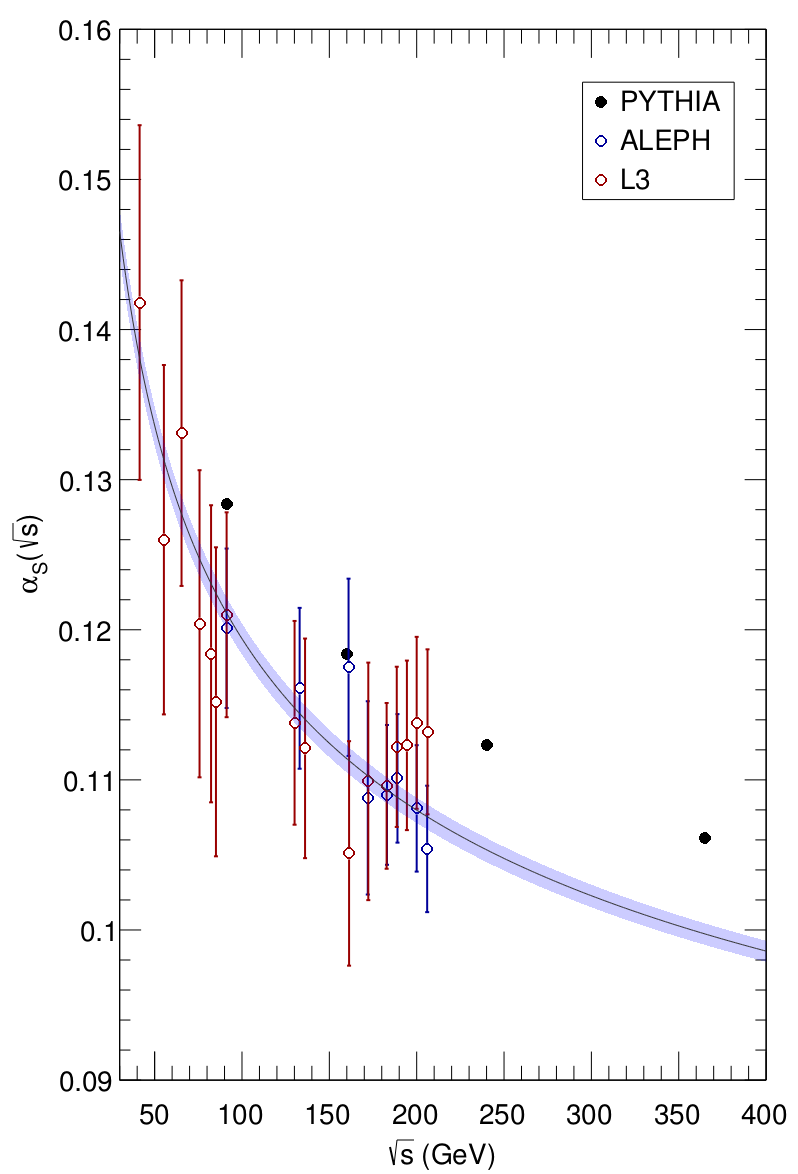
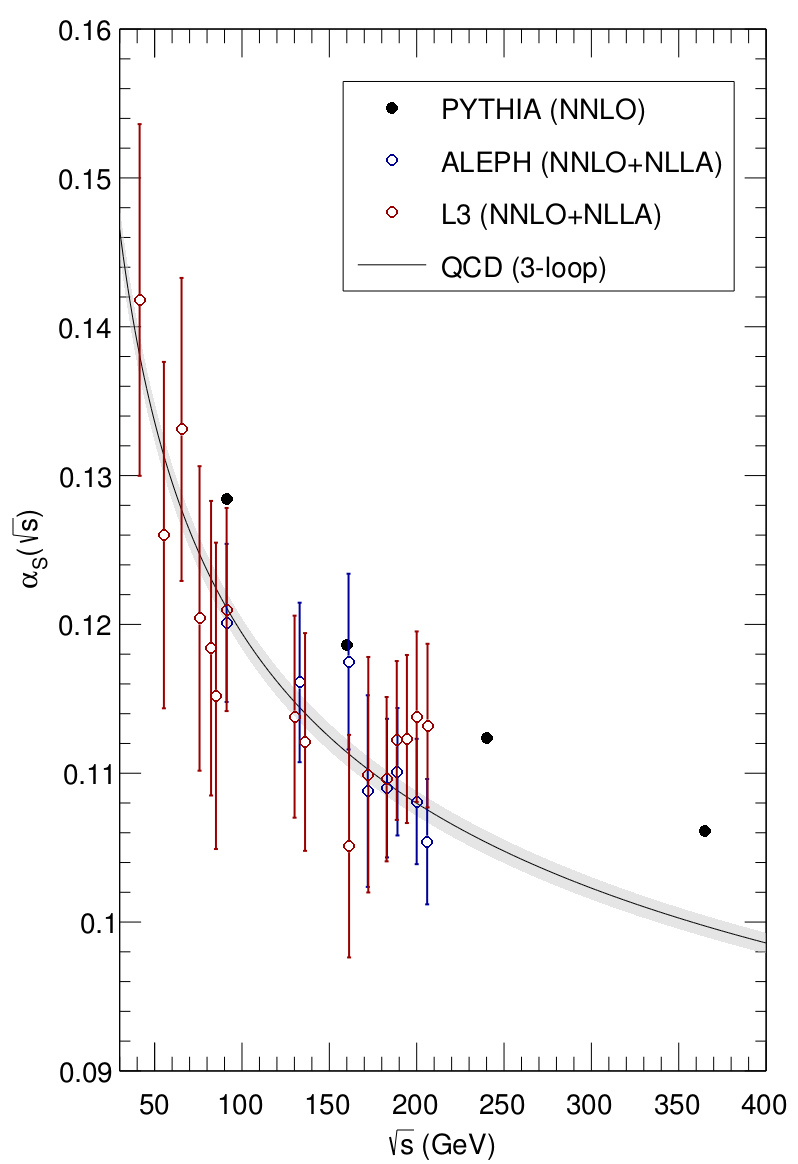
File updates

diff --git a/7-TESLA_500G_Calibration/ImpactofAlpha.cc b/7-TESLA_500G_Calibration/ImpactofAlpha.cc
@@ -622,100 +622,100 @@ void ImpactofAlpha() {
 
 /////////////////////////////////////////////////////////////////////////////////////////////////////////////
 
-	// Create canvas
-	TCanvas* cv5 = new TCanvas("cv5", "FCC-ee ISR Studies", 900, 900);
+	// // Create canvas
+	// TCanvas* cv5 = new TCanvas("cv5", "FCC-ee ISR Studies", 900, 900);
 
-	TLegend* lg5 = new TLegend(0.73, 0.82, 0.92, 0.93);
-	lg5->AddEntry(hist_ThrPyth_912_woHadron, "PYTHIA", "P");
-	lg5->AddEntry(hist_fitThNN_912, "NNLO", "L");
-	lg5->SetTextSize(0.04);	
+	// TLegend* lg5 = new TLegend(0.73, 0.82, 0.92, 0.93);
+	// lg5->AddEntry(hist_ThrPyth_912_woHadron, "PYTHIA", "P");
+	// lg5->AddEntry(hist_fitThNN_912, "NNLO", "L");
+	// lg5->SetTextSize(0.04);	
 
-	// Beautify
-	gStyle->SetErrorX(0.000000001);
-	gStyle->SetLabelSize(0.05, "X");
-	gStyle->SetLabelSize(0.05, "Y");
-	gStyle->SetTitleSize(0.06, "X");
-	gStyle->SetTitleSize(0.06, "Y");
-	cv5->SetMargin(0, 0, 0, 0); 
-	cv5->Divide(1,2);
-	for (int i = 1; i <= 2; i++) {
-		cv5->cd(i);
-		gPad->SetTopMargin(0.025);
-		gPad->SetBottomMargin(0.07);
-		gPad->SetLeftMargin(0.12);
-		gPad->SetRightMargin(0.04);
-		gPad->SetTickx(); gPad->SetTicky();
-		gPad->SetLogy();
-	}
+	// // Beautify
+	// gStyle->SetErrorX(0.000000001);
+	// gStyle->SetLabelSize(0.05, "X");
+	// gStyle->SetLabelSize(0.05, "Y");
+	// gStyle->SetTitleSize(0.06, "X");
+	// gStyle->SetTitleSize(0.06, "Y");
+	// cv5->SetMargin(0, 0, 0, 0); 
+	// cv5->Divide(1,2);
+	// for (int i = 1; i <= 2; i++) {
+	// 	cv5->cd(i);
+	// 	gPad->SetTopMargin(0.025);
+	// 	gPad->SetBottomMargin(0.07);
+	// 	gPad->SetLeftMargin(0.12);
+	// 	gPad->SetRightMargin(0.04);
+	// 	gPad->SetTickx(); gPad->SetTicky();
+	// 	gPad->SetLogy();
+	// }
 
-	hist_ThrPyth_912_woHadron->SetLineColor(kBlack); hist_ThrPyth_912_woHadron->SetMarkerColor(kBlack); hist_ThrPyth_912_woHadron->SetMarkerStyle(kStar); hist_ThrPyth_912_woHadron->SetLineWidth(2); hist_ThrPyth_912_woHadron->SetMarkerSize(2);
-	hist_ThrPyth_160_woHadron->SetLineColor(kBlack); hist_ThrPyth_160_woHadron->SetMarkerColor(kBlack); hist_ThrPyth_160_woHadron->SetMarkerStyle(kStar); hist_ThrPyth_160_woHadron->SetLineWidth(2); hist_ThrPyth_160_woHadron->SetMarkerSize(2);
-	hist_ThrPyth_240_woHadron->SetLineColor(kBlack); hist_ThrPyth_240_woHadron->SetMarkerColor(kBlack); hist_ThrPyth_240_woHadron->SetMarkerStyle(kStar); hist_ThrPyth_240_woHadron->SetLineWidth(2); hist_ThrPyth_240_woHadron->SetMarkerSize(2);
-	hist_ThrPyth_365_woHadron->SetLineColor(kBlack); hist_ThrPyth_365_woHadron->SetMarkerColor(kBlack); hist_ThrPyth_365_woHadron->SetMarkerStyle(kStar); hist_ThrPyth_365_woHadron->SetLineWidth(2); hist_ThrPyth_365_woHadron->SetMarkerSize(2);
+	// hist_ThrPyth_912_woHadron->SetLineColor(kBlack); hist_ThrPyth_912_woHadron->SetMarkerColor(kBlack); hist_ThrPyth_912_woHadron->SetMarkerStyle(kStar); hist_ThrPyth_912_woHadron->SetLineWidth(2); hist_ThrPyth_912_woHadron->SetMarkerSize(2);
+	// hist_ThrPyth_160_woHadron->SetLineColor(kBlack); hist_ThrPyth_160_woHadron->SetMarkerColor(kBlack); hist_ThrPyth_160_woHadron->SetMarkerStyle(kStar); hist_ThrPyth_160_woHadron->SetLineWidth(2); hist_ThrPyth_160_woHadron->SetMarkerSize(2);
+	// hist_ThrPyth_240_woHadron->SetLineColor(kBlack); hist_ThrPyth_240_woHadron->SetMarkerColor(kBlack); hist_ThrPyth_240_woHadron->SetMarkerStyle(kStar); hist_ThrPyth_240_woHadron->SetLineWidth(2); hist_ThrPyth_240_woHadron->SetMarkerSize(2);
+	// hist_ThrPyth_365_woHadron->SetLineColor(kBlack); hist_ThrPyth_365_woHadron->SetMarkerColor(kBlack); hist_ThrPyth_365_woHadron->SetMarkerStyle(kStar); hist_ThrPyth_365_woHadron->SetLineWidth(2); hist_ThrPyth_365_woHadron->SetMarkerSize(2);
 
-	hist_CprPyth_912_woHadron->SetLineColor(kBlack); hist_CprPyth_912_woHadron->SetMarkerColor(kBlack); hist_CprPyth_912_woHadron->SetMarkerStyle(kStar); hist_CprPyth_912_woHadron->SetLineWidth(2); hist_CprPyth_912_woHadron->SetMarkerSize(1.5);
-	hist_CprPyth_160_woHadron->SetLineColor(kBlack); hist_CprPyth_160_woHadron->SetMarkerColor(kBlack); hist_CprPyth_160_woHadron->SetMarkerStyle(kStar); hist_CprPyth_160_woHadron->SetLineWidth(2); hist_CprPyth_160_woHadron->SetMarkerSize(1.5);
-	hist_CprPyth_240_woHadron->SetLineColor(kBlack); hist_CprPyth_240_woHadron->SetMarkerColor(kBlack); hist_CprPyth_240_woHadron->SetMarkerStyle(kStar); hist_CprPyth_240_woHadron->SetLineWidth(2); hist_CprPyth_240_woHadron->SetMarkerSize(1.5);
-	hist_CprPyth_365_woHadron->SetLineColor(kBlack); hist_CprPyth_365_woHadron->SetMarkerColor(kBlack); hist_CprPyth_365_woHadron->SetMarkerStyle(kStar); hist_CprPyth_365_woHadron->SetLineWidth(2); hist_CprPyth_365_woHadron->SetMarkerSize(1.5);
+	// hist_CprPyth_912_woHadron->SetLineColor(kBlack); hist_CprPyth_912_woHadron->SetMarkerColor(kBlack); hist_CprPyth_912_woHadron->SetMarkerStyle(kStar); hist_CprPyth_912_woHadron->SetLineWidth(2); hist_CprPyth_912_woHadron->SetMarkerSize(1.5);
+	// hist_CprPyth_160_woHadron->SetLineColor(kBlack); hist_CprPyth_160_woHadron->SetMarkerColor(kBlack); hist_CprPyth_160_woHadron->SetMarkerStyle(kStar); hist_CprPyth_160_woHadron->SetLineWidth(2); hist_CprPyth_160_woHadron->SetMarkerSize(1.5);
+	// hist_CprPyth_240_woHadron->SetLineColor(kBlack); hist_CprPyth_240_woHadron->SetMarkerColor(kBlack); hist_CprPyth_240_woHadron->SetMarkerStyle(kStar); hist_CprPyth_240_woHadron->SetLineWidth(2); hist_CprPyth_240_woHadron->SetMarkerSize(1.5);
+	// hist_CprPyth_365_woHadron->SetLineColor(kBlack); hist_CprPyth_365_woHadron->SetMarkerColor(kBlack); hist_CprPyth_365_woHadron->SetMarkerStyle(kStar); hist_CprPyth_365_woHadron->SetLineWidth(2); hist_CprPyth_365_woHadron->SetMarkerSize(1.5);
 
-	hist_ThrPyth_912_woHadron->GetXaxis()->CenterTitle(); hist_ThrPyth_912_woHadron->GetYaxis()->CenterTitle();
-	hist_CprPyth_912_woHadron->GetXaxis()->CenterTitle(); hist_CprPyth_912_woHadron->GetYaxis()->CenterTitle();
+	// hist_ThrPyth_912_woHadron->GetXaxis()->CenterTitle(); hist_ThrPyth_912_woHadron->GetYaxis()->CenterTitle();
+	// hist_CprPyth_912_woHadron->GetXaxis()->CenterTitle(); hist_CprPyth_912_woHadron->GetYaxis()->CenterTitle();
 
-	// Draw
-	cv5->cd(1);
+	// // Draw
+	// cv5->cd(1);
 
-	hist_ThrPyth_912_woHadron->Draw("P");
-	hist_fitThNN_912->Draw("HIST C SAME");
+	// hist_ThrPyth_912_woHadron->Draw("P");
+	// hist_fitThNN_912->Draw("HIST C SAME");
 	
-	hist_ThrPyth_160_woHadron->Scale(1E3);
-	hist_ThrPyth_160_woHadron->Draw("P SAME");
-	hist_fitThNN_160->Scale(1E3);
-	hist_fitThNN_160->Draw("HIST C SAME");
+	// hist_ThrPyth_160_woHadron->Scale(1E3);
+	// hist_ThrPyth_160_woHadron->Draw("P SAME");
+	// hist_fitThNN_160->Scale(1E3);
+	// hist_fitThNN_160->Draw("HIST C SAME");
 
-	hist_ThrPyth_240_woHadron->Scale(1E6);
-	hist_ThrPyth_240_woHadron->Draw("P SAME");
-	hist_fitThNN_240->Scale(1E6);
-	hist_fitThNN_240->Draw("HIST C SAME");
+	// hist_ThrPyth_240_woHadron->Scale(1E6);
+	// hist_ThrPyth_240_woHadron->Draw("P SAME");
+	// hist_fitThNN_240->Scale(1E6);
+	// hist_fitThNN_240->Draw("HIST C SAME");
 
-	hist_ThrPyth_365_woHadron->Scale(1E9);
-	hist_ThrPyth_365_woHadron->Draw("P SAME");
-	hist_fitThNN_365->Scale(1E9);
-	hist_fitThNN_365->Draw("HIST C SAME");
+	// hist_ThrPyth_365_woHadron->Scale(1E9);
+	// hist_ThrPyth_365_woHadron->Draw("P SAME");
+	// hist_fitThNN_365->Scale(1E9);
+	// hist_fitThNN_365->Draw("HIST C SAME");
 
-	lg5->Draw("SAME");	
+	// lg5->Draw("SAME");	
 
-	cv5->cd(2);
+	// cv5->cd(2);
 
-	hist_CprPyth_912_woHadron->Draw("P");
-	hist_fitCpNN_912->Draw("HIST C SAME");
+	// hist_CprPyth_912_woHadron->Draw("P");
+	// hist_fitCpNN_912->Draw("HIST C SAME");
 
-	hist_CprPyth_160_woHadron->Scale(1E3);
-	hist_CprPyth_160_woHadron->Draw("P SAME");
-	hist_fitCpNN_160->Scale(1E3);
-	hist_fitCpNN_160->Draw("HIST C SAME");
+	// hist_CprPyth_160_woHadron->Scale(1E3);
+	// hist_CprPyth_160_woHadron->Draw("P SAME");
+	// hist_fitCpNN_160->Scale(1E3);
+	// hist_fitCpNN_160->Draw("HIST C SAME");
 
-	hist_CprPyth_240_woHadron->Scale(1E6);
-	hist_CprPyth_240_woHadron->Draw("P SAME");
-	hist_fitCpNN_240->Scale(1E6);
-	hist_fitCpNN_240->Draw("HIST C SAME");
+	// hist_CprPyth_240_woHadron->Scale(1E6);
+	// hist_CprPyth_240_woHadron->Draw("P SAME");
+	// hist_fitCpNN_240->Scale(1E6);
+	// hist_fitCpNN_240->Draw("HIST C SAME");
 
-	hist_CprPyth_365_woHadron->Scale(1E9);
-	hist_CprPyth_365_woHadron->Draw("P SAME");
-	hist_fitCpNN_365->Scale(1E9);
-	hist_fitCpNN_365->Draw("HIST C SAME");
+	// hist_CprPyth_365_woHadron->Scale(1E9);
+	// hist_CprPyth_365_woHadron->Draw("P SAME");
+	// hist_fitCpNN_365->Scale(1E9);
+	// hist_fitCpNN_365->Draw("HIST C SAME");
 
-	lg5->Draw("SAME");	
+	// lg5->Draw("SAME");	
 
-	// Set limits
-	hist_ThrPyth_912_woHadron->GetYaxis()->SetRangeUser(1E-3,1E12);
-	hist_ThrPyth_912_woHadron->GetXaxis()->SetRangeUser(0,0.39);
-	hist_CprPyth_912_woHadron->GetYaxis()->SetRangeUser(1E-3,1E12);
-	hist_CprPyth_912_woHadron->GetXaxis()->SetRangeUser(0,0.90);
+	// // Set limits
+	// hist_ThrPyth_912_woHadron->GetYaxis()->SetRangeUser(1E-3,1E12);
+	// hist_ThrPyth_912_woHadron->GetXaxis()->SetRangeUser(0,0.39);
+	// hist_CprPyth_912_woHadron->GetYaxis()->SetRangeUser(1E-3,1E12);
+	// hist_CprPyth_912_woHadron->GetXaxis()->SetRangeUser(0,0.90);
 
-	// Modify stat-box
-	gStyle->SetOptStat();
-	// Update canvas
-	cv5->Modified();
+	// // Modify stat-box
+	// gStyle->SetOptStat();
+	// // Update canvas
+	// cv5->Modified();
 
 /////////////////////////////////////////////////////////////////////////////////////////////////////////////
 
@@ -815,9 +815,6 @@ void ImpactofAlpha() {
 
 	// Define central curve
 	TGraph *gRun3L = new TGraph(Npts, Qx, asC);
-	gRun3L->SetLineColor(kGray + 3);
-	// gRun3L->SetLineStyle(7);
-	gRun3L->SetLineWidth(1);
 
 	// Construct uncertainty band
 	TGraph *gBand3L = new TGraph(2 * Npts);
@@ -825,7 +822,7 @@ void ImpactofAlpha() {
 		gBand3L->SetPoint(i, Qx[i], asUp[i]);                			// Upper edge
 		gBand3L->SetPoint(2 * Npts - 1 - i, Qx[i], asDn[i]);			// Lower edge (reversed)
 	}
-	gBand3L->SetFillColorAlpha(kBlue, 0.20);
+	gBand3L->SetFillColorAlpha(kGray, 0.50);
 	gBand3L->SetLineColor(0);
 
 /////////////////////////////////////////////////////////////////////////////////////////////////////////////
@@ -867,63 +864,63 @@ void ImpactofAlpha() {
 		gBandPY->SetPoint(i, Qpy[i], asPytHi[i]);
 	for (int i = 0; i < NptsPY; ++i)
 		gBandPY->SetPoint(NptsPY + i, Qpy[NptsPY-1-i], asPytLo[NptsPY-1-i]);
-	gBandPY->SetFillColorAlpha(kCyan, 0.3);
+	gBandPY->SetFillColorAlpha(kGray, 0.3);
 	gBandPY->SetLineColor(0);
 
 /////////////////////////////////////////////////////////////////////////////////////////////////////////////
 
-	// // Create canvas
-	// TCanvas* cv4 = new TCanvas("cv4", "FCC-ee ISR Studies", 800, 1200);
+	// Create canvas
+	TCanvas* cv4 = new TCanvas("cv4", "FCC-ee ISR Studies", 800, 1190);
 
-	// // Add legend
-	// TLegend *lg4 = new TLegend(0.73, 0.83, 0.92, 0.93);
-	// lg4->AddEntry(grph_AlphaSS_PyAll, "PYTHIA", "P");
-	// // lg4->AddEntry(grph_AlphaSS_PyThr, "PYTHIA (1-T)", "L");
-	// // lg4->AddEntry(grph_AlphaSS_PyCpr, "PYTHIA (C)", "L");
-	// lg4->AddEntry(grph_AlphaSS_ExALP, "ALEPH", "P");
-	// lg4->AddEntry(grph_AlphaSS_ExLL3, "L3", "P");
-	// // lg4->AddEntry(gRun3L, "3-loop QCD", "L");
-	// lg4->SetTextSize(0.04);
+	// Add legend
+	TLegend *lg4 = new TLegend(0.43, 0.75, 0.92, 0.93);
+	lg4->AddEntry(grph_AlphaSS_PyAll, "PYTHIA (NNLO)", "P");
+	// lg4->AddEntry(grph_AlphaSS_PyThr, "PYTHIA (1-T)", "L");
+	// lg4->AddEntry(grph_AlphaSS_PyCpr, "PYTHIA (C)", "L");
+	lg4->AddEntry(grph_AlphaSS_ExALP, "ALEPH (NNLO+NLLA)", "P");
+	lg4->AddEntry(grph_AlphaSS_ExLL3, "L3 (NNLO+NLLA)", "P");
+	lg4->AddEntry(gRun3L, "QCD (3-loop)", "L");
+	lg4->SetTextSize(0.04);
 
-	// // Beautify
-	// gStyle->SetLabelSize(0.05, "X");
-	// gStyle->SetLabelSize(0.05, "Y");
-	// gStyle->SetTitleSize(0.06, "X");
-	// gStyle->SetTitleSize(0.06, "Y");
-	// cv4->SetMargin(0, 0, 0, 0);
-	// gPad->SetTopMargin(0.025);
-	// gPad->SetBottomMargin(0.08);
-	// gPad->SetLeftMargin(0.15);
-	// gPad->SetRightMargin(0.04);
-	// gPad->SetTickx(); gPad->SetTicky();
+	// Beautify
+	gStyle->SetLabelSize(0.05, "X");
+	gStyle->SetLabelSize(0.05, "Y");
+	gStyle->SetTitleSize(0.06, "X");
+	gStyle->SetTitleSize(0.06, "Y");
+	cv4->SetMargin(0, 0, 0, 0);
+	gPad->SetTopMargin(0.025);
+	gPad->SetBottomMargin(0.08);
+	gPad->SetLeftMargin(0.15);
+	gPad->SetRightMargin(0.04);
+	gPad->SetTickx(); gPad->SetTicky();
 
-	// // Beautify
-	// grph_AlphaSS_PyAll->GetXaxis()->CenterTitle(); grph_AlphaSS_PyAll->GetYaxis()->CenterTitle();
-	// grph_AlphaSS_PyAll->GetXaxis()->SetLabelSize(0.04); grph_AlphaSS_PyAll->GetXaxis()->SetTitleSize(0.04);
-	// grph_AlphaSS_PyAll->GetYaxis()->SetLabelSize(0.04); grph_AlphaSS_PyAll->GetYaxis()->SetTitleSize(0.04);
-	// grph_AlphaSS_PyAll->SetTitle("");
-	// grph_AlphaSS_PyAll->GetYaxis()->SetTitle("#alpha_{S}(#sqrt{s})");
-	// grph_AlphaSS_PyAll->GetXaxis()->SetTitle("#sqrt{s} (GeV)");
+	// Beautify
+	grph_AlphaSS_PyAll->GetXaxis()->CenterTitle(); grph_AlphaSS_PyAll->GetYaxis()->CenterTitle();
+	grph_AlphaSS_PyAll->GetXaxis()->SetLabelSize(0.04); grph_AlphaSS_PyAll->GetXaxis()->SetTitleSize(0.04);
+	grph_AlphaSS_PyAll->GetYaxis()->SetLabelSize(0.04); grph_AlphaSS_PyAll->GetYaxis()->SetTitleSize(0.04);
+	grph_AlphaSS_PyAll->SetTitle("");
+	grph_AlphaSS_PyAll->GetYaxis()->SetTitle("#alpha_{S}(#sqrt{s})");
+	grph_AlphaSS_PyAll->GetXaxis()->SetTitle("#sqrt{s} (GeV)");
 
-	// // // Draw
-	// grph_AlphaSS_PyAll->Draw("APE");
-	// // grph_AlphaSS_PyThr->Draw("PEL SAME");
-	// // grph_AlphaSS_PyCpr->Draw("PEL SAME");
-	// grph_AlphaSS_ExALP->Draw("PE SAME");
-	// grph_AlphaSS_ExLL3->Draw("PE SAME");
-	// // grph_AlphaSS_Disse->Draw("PEL SAME");
-	// gBand3L->Draw("F SAME");
-	// gRun3L->Draw("L SAME");
-	// // gBandPY->Draw("F SAME");
-	// // gRunPY->Draw("L SAME");
-	// lg4->Draw("SAME");
+	// // Draw
+	grph_AlphaSS_PyAll->Draw("APE");
+	// grph_AlphaSS_PyThr->Draw("PEL SAME");
+	// grph_AlphaSS_PyCpr->Draw("PEL SAME");
+	gBand3L->Draw("F SAME");
+	gRun3L->Draw("L SAME");
+	grph_AlphaSS_ExALP->Draw("PE SAME");
+	grph_AlphaSS_ExLL3->Draw("PE SAME");
+	// grph_AlphaSS_Disse->Draw("PEL SAME");
+	// gBandPY->Draw("F SAME");
+	// gRunPY->Draw("L SAME");
+	lg4->Draw("SAME");
 
-	// // Set limits
-	// grph_AlphaSS_PyAll->GetYaxis()->SetRangeUser(0.09,0.16);
-	// grph_AlphaSS_PyAll->GetXaxis()->SetLimits(30, 400);
+	// Set limits
+	grph_AlphaSS_PyAll->GetYaxis()->SetRangeUser(0.09,0.16);
+	grph_AlphaSS_PyAll->GetXaxis()->SetLimits(30, 400);
 
-	// // Update canvas
-	// cv4->Modified();
+	// Update canvas
+	cv4->Modified();
 
 /////////////////////////////////////////////////////////////////////////////////////////////////////////////
 // Print results
